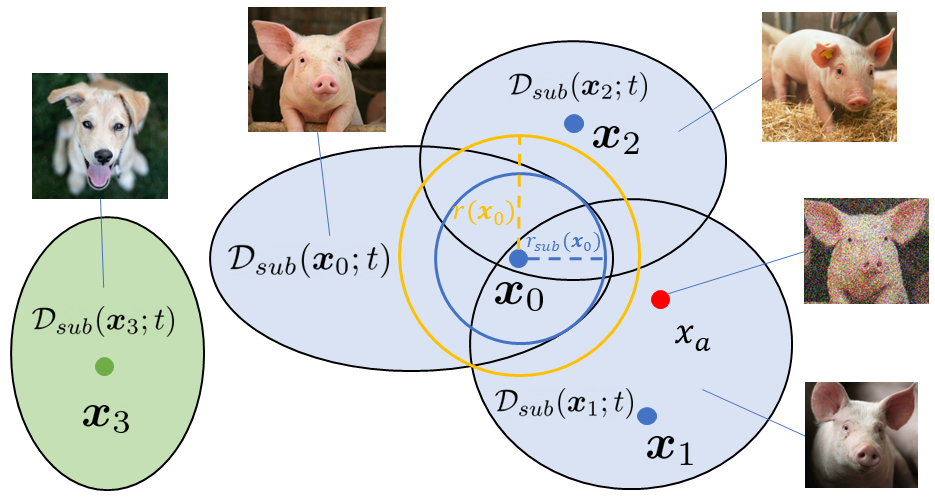
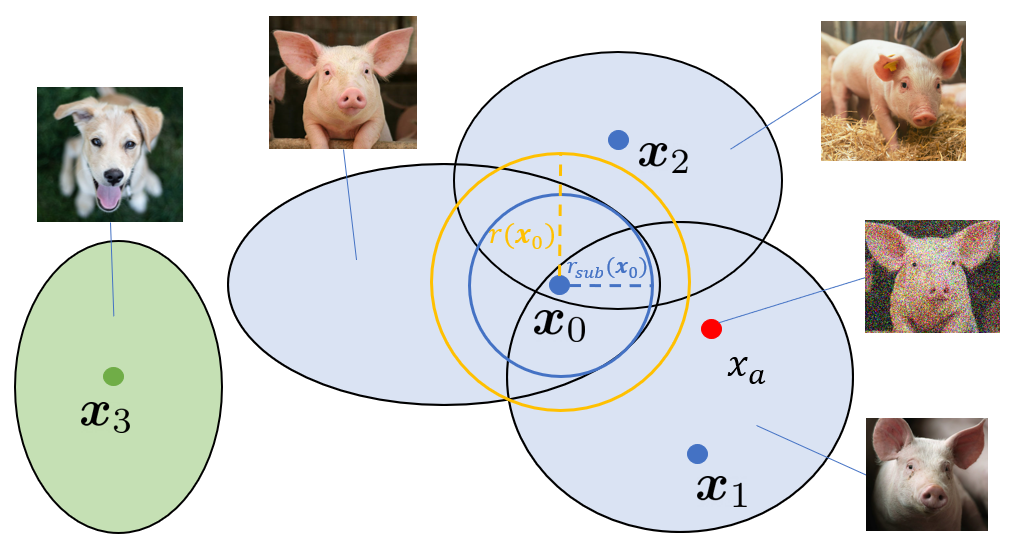
update

diff --git a/index.html b/index.html
@@ -339,7 +339,12 @@
     <figure style="width: 100%">
         <center><img width="65%" src="assets/D_sub_figure.png"></center>
         <p class="caption" style="margin-bottom: 24px;">
-            An illustration of the robust region.
+            An illustration of the robust region, where x<sub>0</sub>, x<sub>1</sub>, x<sub>2</sub> are samples with ground-trueth label 
+            and x<sub>3</sub> is a sample with another label. x<sub>a</sub> = x<sub>0</sub> + ε<sub>a</sub> is an adversarial sample with 
+            correct classification but it could not be reversed back to x<sub>0</sub>. The blue and green shades are recovery regions where noise
+            samples can be reversed back to their original ones by diffusion models. When we have a data region with higher data density 
+            and larger distances to data regions with other labels like blue shade in the picture, we can gain a larger robust radius like 
+            r(x<sub>0</sub>) other than the radius r<sub>sub</sub>(x<sub>0</sub>) which is restricted in the recovery region of x<sub>0</sub>.
         </p>
     </figure>
     </section>
@@ -388,7 +393,7 @@
                 <center><img width="100%" src="assets/table.png"></center>
             </a>
             <p class="caption" style="margin-bottom: 24px;">
-                Certified accuracy compared with existing works. The certified accuracy at  = 0 for each
+                Certified accuracy compared with existing works. The certified accuracy at σ = 0 for each
                 model is in the parentheses. The certified accuracy for each cell is from the respective papers except
                 Carlini et al. (2022). Our diffusion model and classifier are the same as Carlini et al. (2022), where
                 the off-the-shelf classifier uses ViT-based architectures trained on a large dataset (ImageNet-22k).
@@ -409,7 +414,7 @@
             </a>
             <p class="caption" style="margin-bottom: 24px;">
                 Comparing our method vs Carlini et al. (2022) on CIFAR-10 and ImageNet. The lines
-                represent the certified accuracy with different L2 perturbation bound with different Gaussian noise
+                represent the certified accuracy with different L<sub>2</sub> perturbation bound with different Gaussian noise
                 σ ∈ {0.25, 0.50, 1.00}.
             </p>
         </figure>
@@ -433,7 +438,7 @@
             experiments to show the effectiveness of DensePure by evaluating the certified robustness via the
             randomized smoothing algorithm. Note that DensePure is an off-the-shelf pipeline that does not
             require training a smooth classifier. Our results show that DensePure achieves the new SOTA certified 
-            robustness for perturbation with L2-norm. We hope that our work sheds light on an in-depth
+            robustness for perturbation with L<sub>2</sub>-norm. We hope that our work sheds light on an in-depth
             understanding of the diffusion model for adversarial robustness.
         </p>
         <p>
